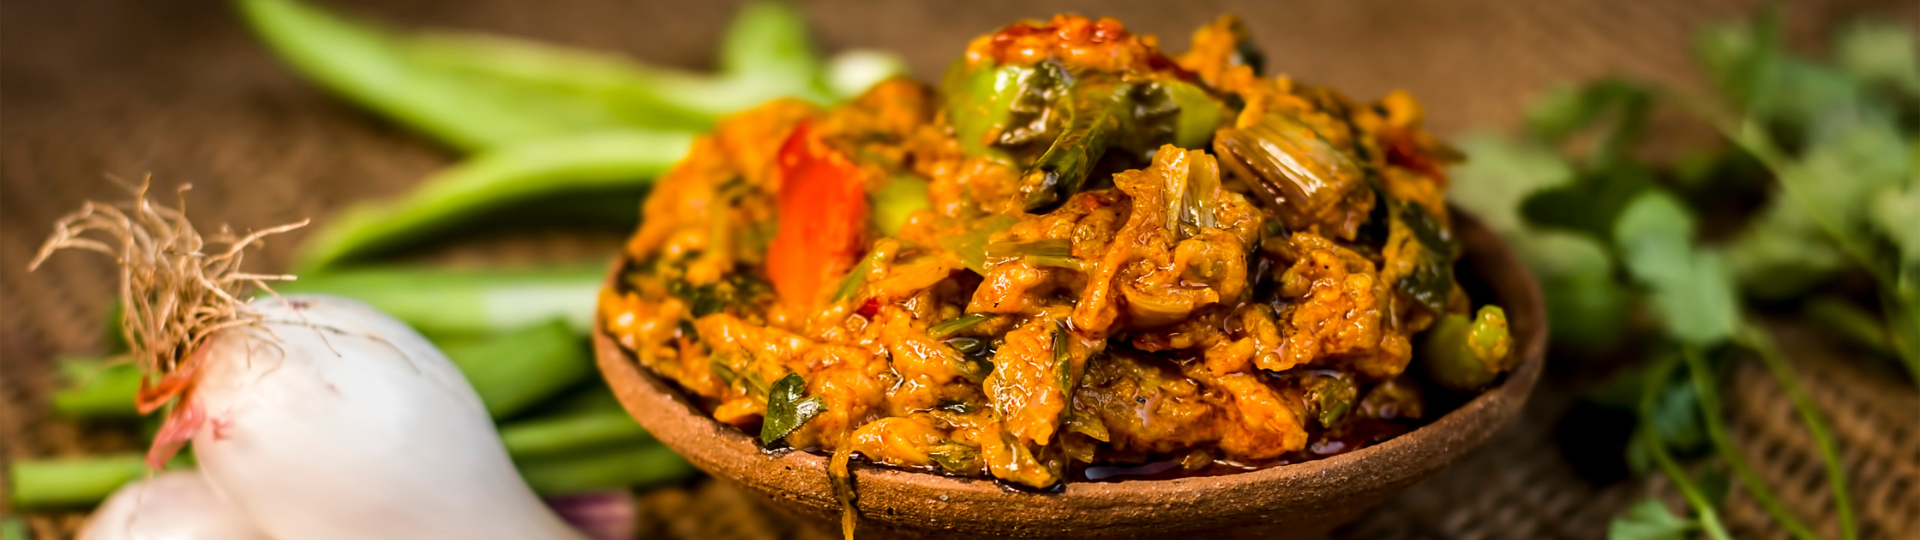
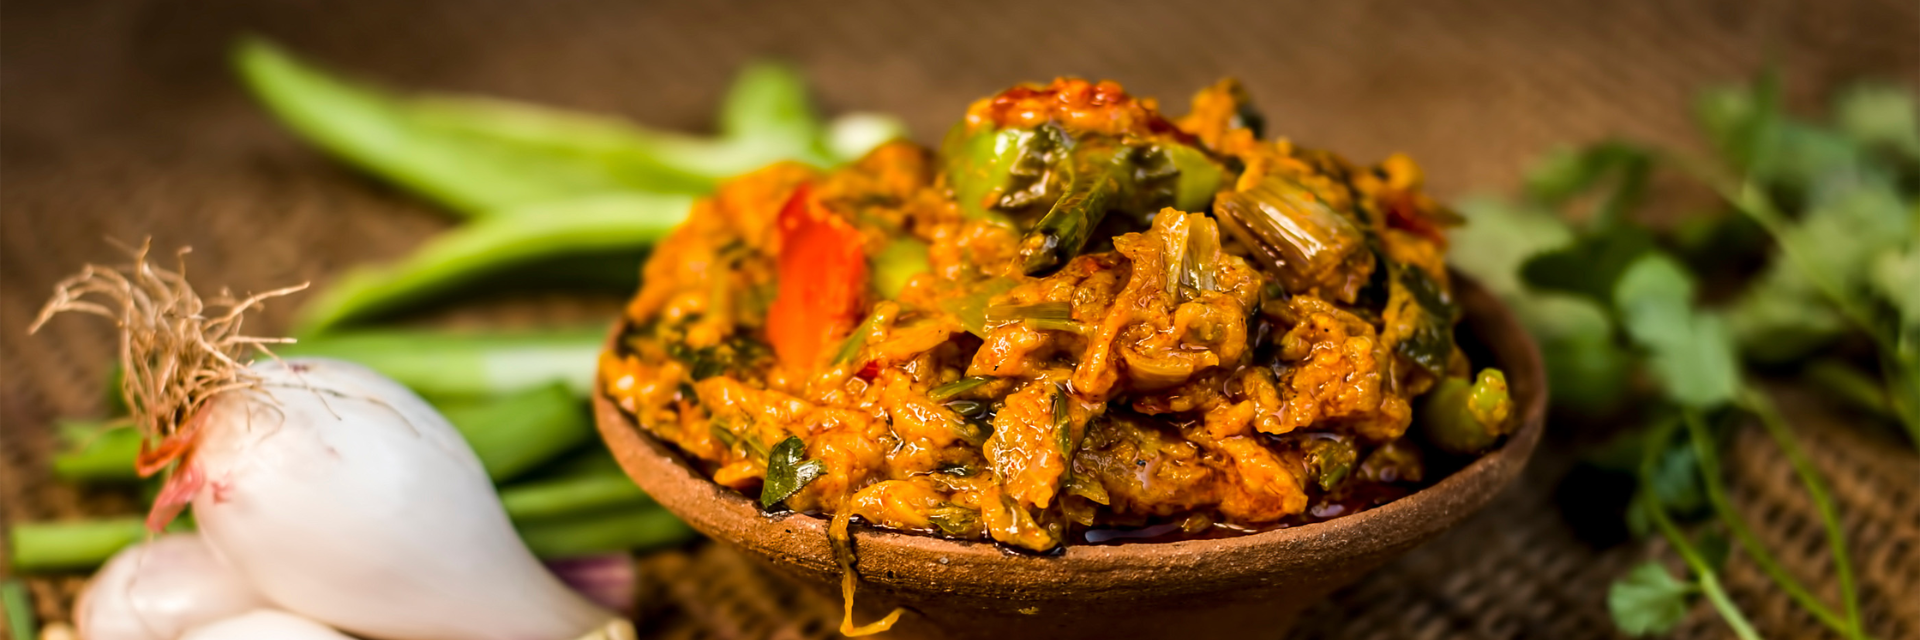
up date

diff --git a/index.html b/index.html
@@ -78,11 +78,11 @@
 	<div id="carouselExampleControls" class="carousel slide  mt-2" data-bs-ride="carousel">
 		<div class="carousel-inner">
 		  <div class="carousel-item active">
-			<img src="./images/banner-burger.png" class="d-block" alt="...">
+			<img src="./images/banner-beef.png" class="d-block" alt="...">
 		  </div>
-		  <!-- <div class="carousel-item">
-			<img src="./images/partridge.png" class="d-block" alt="...">
-		  </div> -->
+		  <div class="carousel-item">
+			<img src="./images/banner-cake.png" class="d-block" alt="...">
+		  </div>
 		  <div class="carousel-item">
 			<img src="./images/banner-labra.png" class="d-block" alt="...">
 		  </div>
